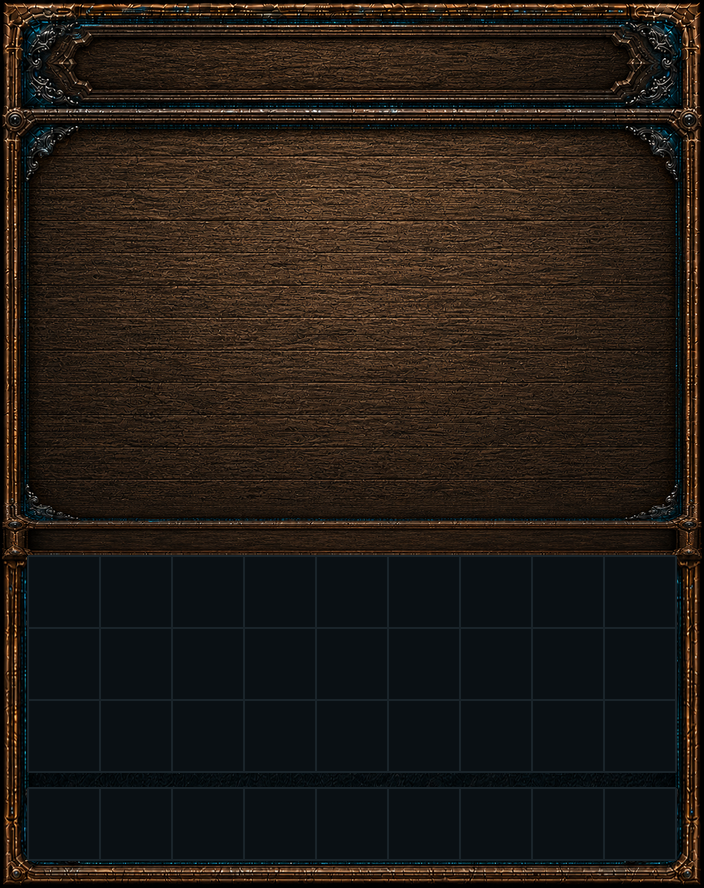
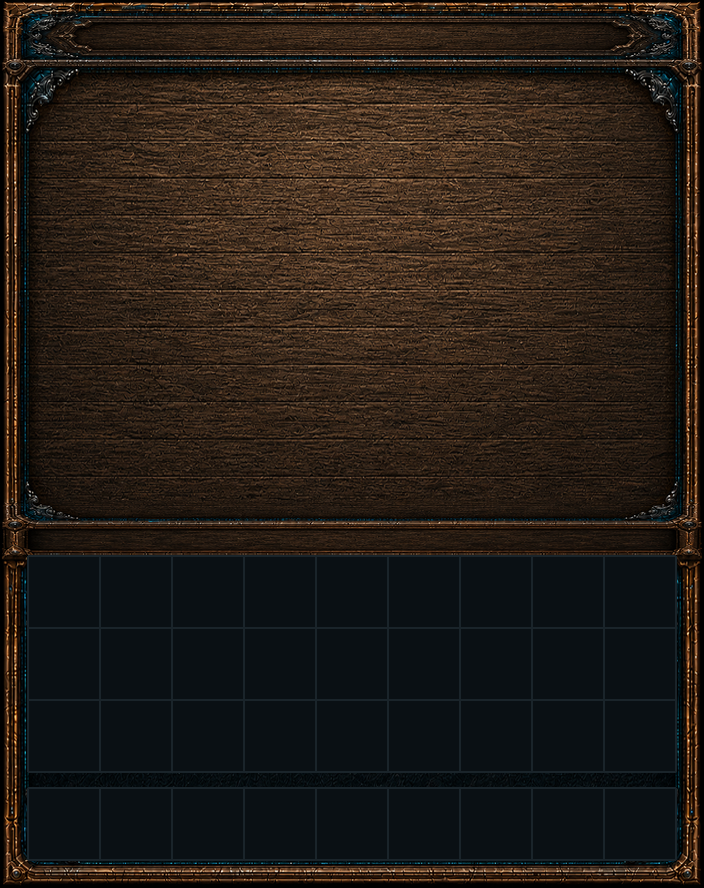
공용 배경판 제목 명판이 슬롯 0행을 덮던 것 수정
명판이 GUI y 6~30 을 먹어서 0행(y17~35)을 가로질렀다. 54칸 화면은 0행에 뒤로가기·
닫기·탭을 두므로 아이콘 위로 놋쇠 띠가 지나가는 꼴이었다. 명판은 제목 글자 한 줄(9px)만
받으면 되니 y 3~17 로 줄이고 그만큼 판을 위로 넓혔다(fit_plate.py 구간 보정).

Changed region(s): [[0.0, 0.0, 1.0, 0.5473]]

diff --git a/gui-forge/fit_plate.py b/gui-forge/fit_plate.py
@@ -30,7 +30,13 @@ HERE = os.path.dirname(os.path.abspath(__file__))
 PLATES = {
     # 원화의 나무 구분 띠와 인벤 패널이 약 60px 낮아 인벤 첫 줄(y556~)이 띠 위에 올라탔다.
     # 컨테이너 영역(0~499)은 정확했으므로 그대로 두고 아래만 끌어올린다.
-    "common6": ((704, 888), [((0, 500), (0, 500)),        # 상단 프레임 + 컨테이너 판 — 유지
+    # ★2026-08-09 재보정: 제목 명판이 GUI y 6~30 을 먹어 **슬롯 0행(y17~35)을 덮었다**.
+    #   54칸 화면은 0행에 뒤로가기·닫기·탭을 두므로 그 위에 놋쇠 띠가 가로지르는 꼴이었다.
+    #   명판은 제목 글자 한 줄(9px)만 받으면 되므로 GUI y 3~17(art 14~68)로 줄이고
+    #   그만큼 판을 위로 넓힌다. 명판은 가로줄 위주라 눌러도 티가 덜 난다.
+    "common6": ((704, 888), [((0, 20), (0, 14)),          # 상단 프레임 — 살짝 압축
+                             ((20, 125), (14, 68)),       # 제목 명판 — 압축(0행을 비켜준다)
+                             ((125, 500), (68, 500)),     # 컨테이너 판 — 위로 확장
                              ((500, 616), (500, 556)),    # 판 아래 테두리 + 나무 띠 — 압축
                              ((616, 859), (556, 860)),    # 인벤 패널 — 확장
                              ((859, 888), (860, 888))]),  # 하단 프레임 — 유지
